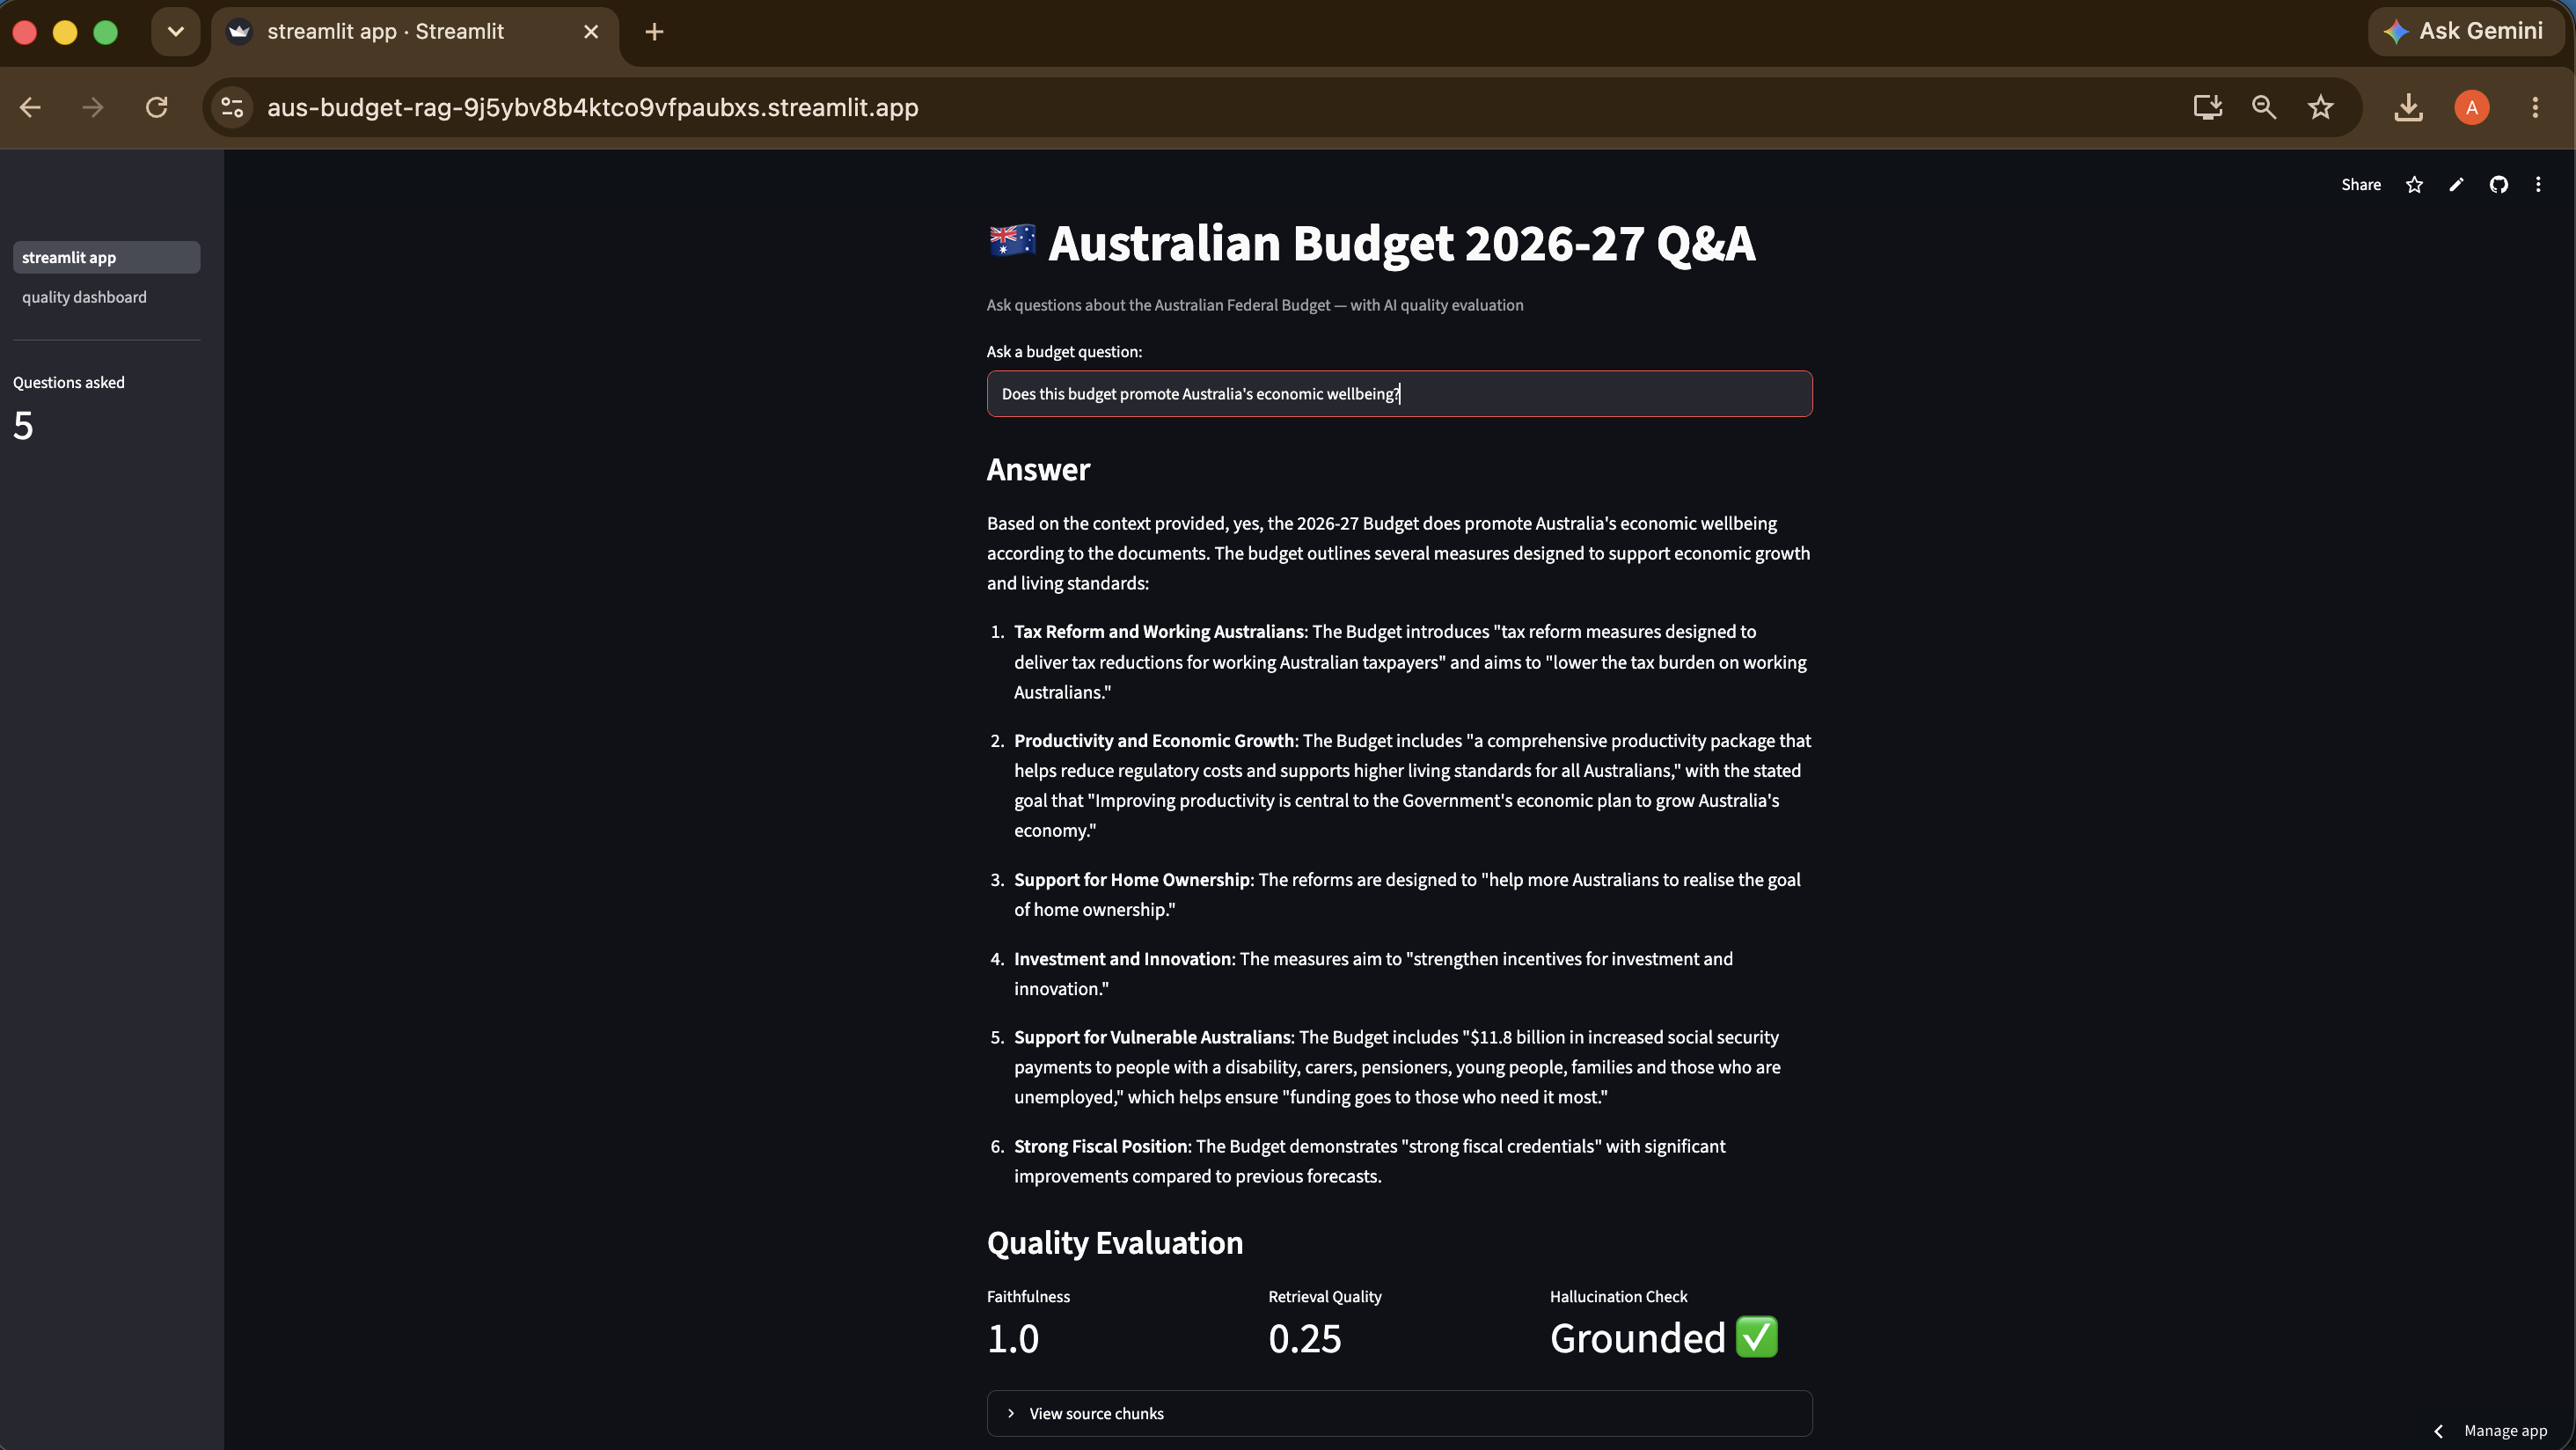
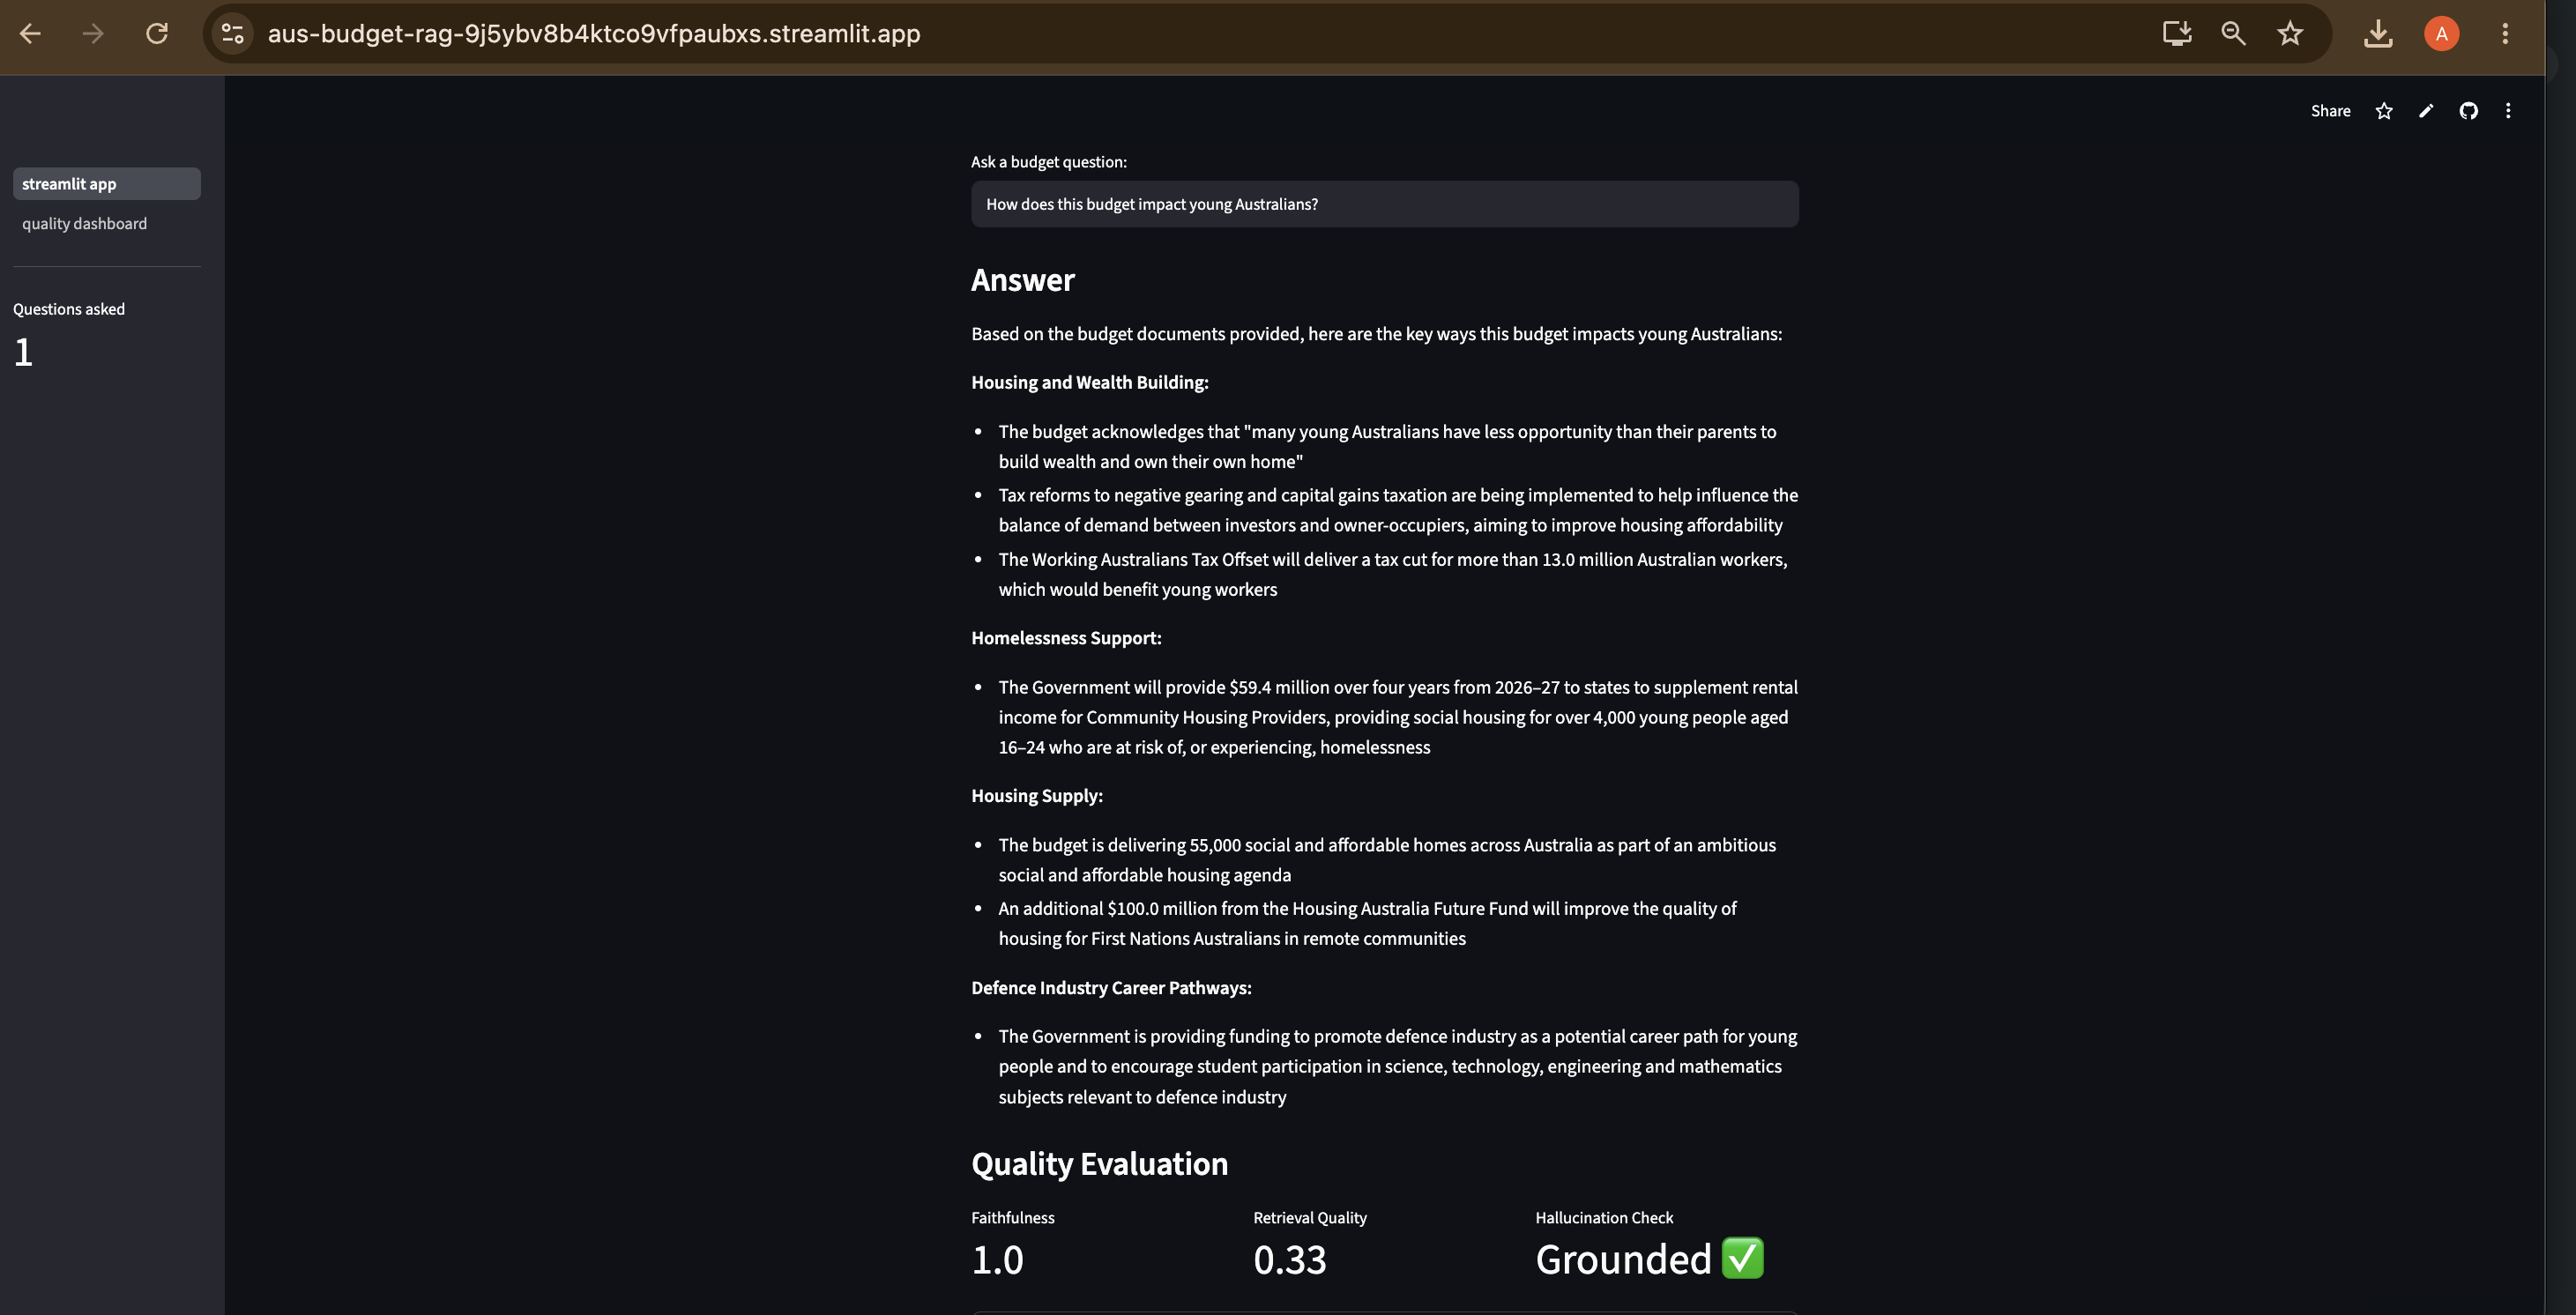
updated read me

Changed region(s): [[0.0, 0.0, 1.0, 1.0], [0.5917, 0.8941, 0.6851, 0.9866], [0.4983, 0.8941, 0.5294, 0.9866]]

diff --git a/README.md b/README.md
@@ -118,12 +118,6 @@ Create `.env` file:
 ANTHROPIC_API_KEY=your_key_here
 ```
 
-Download Budget PDFs from [budget.gov.au](https://budget.gov.au) and place in `data/`:
-- Budget Paper No. 1 (bp1_2026-27.pdf)
-- Budget Paper No. 2 (bp2_2026-27.pdf)
-- Budget Paper No. 3 (bp3_2026-27.pdf)
-- Budget Paper No. 4 (bp4_2026-27.pdf)
-
 Run the app:
 ```bash
 python app.py